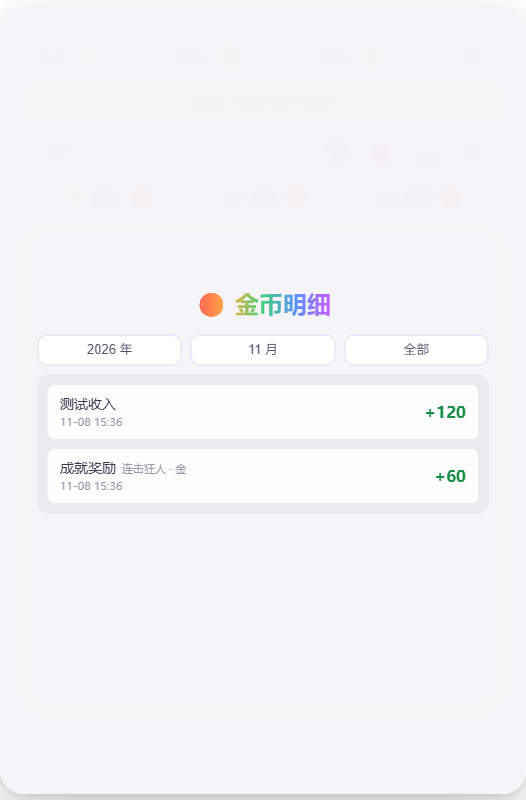
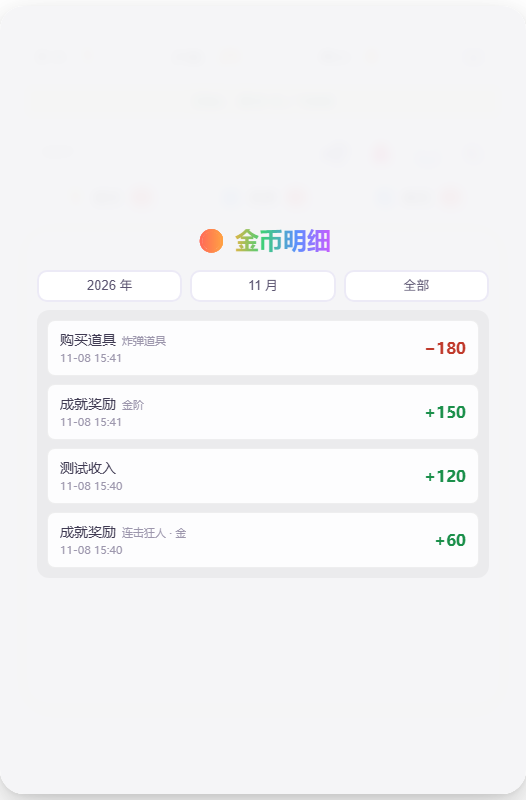
Update files

diff --git a/test-smoke.js b/test-smoke.js
@@ -1004,9 +1004,10 @@ function check(name, ok) {
       /\.ledger-bar\s*\{[^}]*width:\s*90%/.test(cssSrc) &&
       /\.ledger-bar\s*\{[^}]*grid-template-columns:\s*repeat\(3,\s*1fr\)/.test(cssSrc) &&
       /\.ledger-detail\s*\{[^}]*font-size:\s*11px[^}]*font-weight:\s*400/.test(cssSrc) &&
-      // 点过的按键不留蓝焦点框（要跟选择器一起消失），键盘 Tab 仍保留
-      /button:focus:not\(:focus-visible\)[^{]*\{[^}]*outline:\s*none/.test(cssSrc) &&
-      /button:focus-visible[^{]*\{[^}]*outline:/.test(cssSrc) &&
+      // 点过的按键不留蓝焦点框（要跟选择器一起消失，含 :focus-visible）
+      /button:focus,[^{]*\{[^}]*outline:\s*none\s*!important/.test(cssSrc) &&
+      /button:focus-visible[^{]*\{[^}]*outline:\s*none\s*!important/.test(cssSrc) &&
+      /\.closest\('button'\)/.test(jsSrc) &&
       /if \(ledgerMonthSel\.blur\) ledgerMonthSel\.blur\(\)/.test(jsSrc) &&
       /if \(ledgerTypeSel\.blur\) ledgerTypeSel\.blur\(\)/.test(jsSrc) &&
       /'coin-menu': 'main-menu'/.test(jsSrc);
@@ -1120,6 +1121,29 @@ function check(name, ok) {
     if (savedLedger === undefined) lsMap.delete('nl2:ledger'); else lsMap.set('nl2:ledger', savedLedger);
     lsMap.set('nl2:ledgerInit', 'true');
     return seeded && onceOk && balanceOk;
+  })());
+
+  // 14d3-6. 老记录（没有具体说明的购买道具 / 成就奖励）也要补上具体说明
+  check('金币明细：老的「购买道具 / 成就奖励」记录也按金额补上具体说明（只认得出才补）', (() => {
+    const saved = lsMap.get('nl2:ledger');
+    const now = Date.now();
+    lsMap.set('nl2:ledger', JSON.stringify([
+      { t: now, d: -150, m: '购买道具' },
+      { t: now, d: 100, m: '成就奖励' },
+      { t: now, d: 30, m: '通关奖励' }
+    ]));
+    lsMap.delete('nl2:ledgerDetail');
+    const rows = sandbox.Store.getLedger();
+    const buy = rows.filter((x) => x.m === '购买道具')[0];
+    const ach = rows.filter((x) => x.m === '成就奖励')[0];
+    const other = rows.filter((x) => x.m === '通关奖励')[0];
+    const ok = !!buy.x && buy.x.indexOf('洗牌') >= 0 && ach.x === '银阶' && !other.x;
+    // 已经有说明的记录不改
+    lsMap.set('nl2:ledger', JSON.stringify([{ t: now, d: -150, m: '购买道具', x: '洗牌 +1' }]));
+    lsMap.delete('nl2:ledgerDetail');
+    const kept = sandbox.Store.getLedger()[0].x === '洗牌 +1';
+    if (saved === undefined) lsMap.delete('nl2:ledger'); else lsMap.set('nl2:ledger', saved);
+    return ok && kept;
   })());
 
   // 14d4a. 签到入口：日期条状态 + 点红色漏签日补签（50 金币 / 天，不发奖励）
@@ -1832,12 +1856,39 @@ function check(name, ok) {
   check('测试账号名复位', sandbox.Account.current().name === '老玩家2');
 
   // 35. 📮 邮箱：系统邮件 / 未读角标 / 领取奖励
+  // 34b. 欢迎邮件时间 = 建号时间；建号之前的系统邮件不展示；金币明细公告对所有老玩家可见
+  check('邮箱：欢迎邮件按建号时间显示，注册之前发的系统邮件看不到', (() => {
+    const curId = sandbox.Account.current().id;
+    const accs = JSON.parse(lsMap.get('nl2:accounts'));
+    const me = accs.filter((a) => a.id === curId)[0];
+    const saved = me.created;
+    me.created = new Date(2026, 10, 6, 9, 0, 0).getTime();     // 2026-11-06 09:00 建号
+    lsMap.set('nl2:accounts', JSON.stringify(accs));
+    const list = sandbox.Mail.list();
+    const ids = list.map((m) => m.id);
+    const welcome = list.filter((m) => m.id === 'welcome-2026-11')[0];
+    const welcomeOk = !!welcome && welcome.at === '2026-11-06 09:00';
+    // 11-05 发的两封公告：建号之前 → 看不到；11-08 发的两封 → 能看到（含金币明细公告）
+    const oldHidden = ids.indexOf('notice-account-2026-11') < 0 && ids.indexOf('notice-rules-2026-11') < 0;
+    const newVisible = ids.indexOf('notice-master-2026-11-08') >= 0 && ids.indexOf('notice-ledger-2026-11-08') >= 0;
+    me.created = saved;
+    lsMap.set('nl2:accounts', JSON.stringify(accs));
+    return welcomeOk && oldHidden && newVisible;
+  })());
+
+  // 新号看不到建号之前的系统邮件，这里补一封「刚发的」带奖励邮件，后面的领取用例用它
+  const nowStamp = (() => {
+    const d = new Date();
+    const p = (n) => (n < 10 ? '0' + n : String(n));
+    return d.getFullYear() + '-' + p(d.getMonth() + 1) + '-' + p(d.getDate()) + ' ' + p(d.getHours()) + ':' + p(d.getMinutes());
+  })();
+  sandbox.Mail.sendMail({ id: 'utest-gift-b', at: nowStamp, icon: '🎁', title: '测试奖励', coins: 50 });
   const mailListAll = sandbox.Mail.list();
   const giftMail = mailListAll.filter((m) => m.hasGift)[0];
   check('邮箱里有系统邮件（公告 + 带奖励的）',
     mailListAll.length >= 3 && !!giftMail && !!giftMail.coins);
   check('未读数和已读状态初始正确', sandbox.Mail.get(giftMail.id).read === false);
-  sandbox.__nl_test && null;
+  sandbox.__nl_test.refreshMenu();          // 刚补的那封要让角标重新算一遍
   $('main-menu').style.display = 'flex';
   check('主页邮箱键显示未读角标（数字 = 未读封数）',
     String($('mail-badge').textContent) === String(mailListAll.length) && $('mail-badge').style.display !== 'none');
@@ -1919,7 +1970,10 @@ function check(name, ok) {
     sandbox.Mail.list().length === leftBefore - 1);
 
   // 一键删除：未领奖励的邮件不删
-  sandbox.Mail.sendMail({ id: 'utest-gift', at: '2026-11-05 20:30', title: '测试奖励', coins: 50 });
+  // 先把其它带奖励的邮件领掉，保证「一键删除」只会剩下下面这封没领奖的
+  sandbox.Mail.list().filter((m) => m.hasGift && !m.claimed && m.id !== 'utest-gift')
+    .forEach((m) => sandbox.Mail.claim(m.id));
+  sandbox.Mail.sendMail({ id: 'utest-gift', at: nowStamp, title: '测试奖励', coins: 50 });
   $('btn-mail-del-all').dispatch('click');
   check('一键删除先弹确认窗口',
     $('mail-delall-confirm').style.display === 'flex' &&

diff --git a/js/mail.js b/js/mail.js
@@ -13,6 +13,7 @@
     {
       id: 'welcome-2026-11',
       at: '2026-11-05 12:00',
+      atRegister: true,             // 发送时间 = 这个账号的建号时间（下面 at 只是没有建号时间时的兜底）
       icon: '🎉',
       title: '欢迎来到奶龙消消乐',
       from: '系统',
@@ -35,6 +36,15 @@
       title: '说明页更新：功能介绍和玩法说明分开了',
       from: '系统',
       body: '左上角的 📖 说明现在先让你选看哪一份：\n\n· 🧩 功能介绍：章节、更多玩法、金币道具、每日挑战、福利、成就与配色、排行榜、音乐、账号\n· 🎮 玩法说明：基本玩法、特殊块、组合技、连击、关卡目标、障碍与货物、星级、分数与纪录、提示与续命\n\n只想查一个机制的时候，不用再翻完一整页了。',
+      coins: 0
+    },
+    {
+      id: 'notice-ledger-2026-11-08',
+      at: '2026-11-08 15:45',
+      icon: '🪙',
+      title: '金币明细上线：每一笔收支都能查',
+      from: '系统',
+      body: '主页点「🪙 金币」这一行就能打开金币明细：\n\n· 上面一行选年月（不会让你选到未来的月份）和类型（全部 / 支出 / 收入）\n· 买道具会写明买的是哪个、成就奖励会写明是哪一枚哪一阶\n· 明细上线之前的收支补成了一条「历史收支」，全部加起来正好是钱包里的金币',
       coins: 0
     },
     {
@@ -92,6 +102,34 @@
     return String(m.to).trim().toLowerCase() === myName();
   }
 
+  function p2(n) { return n < 10 ? '0' + n : String(n); }
+  function fmtTime(d) {
+    return d.getFullYear() + '-' + p2(d.getMonth() + 1) + '-' + p2(d.getDate()) +
+      ' ' + p2(d.getHours()) + ':' + p2(d.getMinutes());
+  }
+  // 建号时间：欢迎邮件的发送时间就用它；比它早的系统邮件玩家一律看不到
+  function registeredAt() {
+    try {
+      const acc = (global.Account && Account.current) ? Account.current() : null;
+      if (acc && acc.created) {
+        const d = new Date(acc.created);
+        if (!isNaN(d.getTime())) {
+          d.setSeconds(0, 0);          // 只精确到分钟：建号同一分钟里发的邮件也算「注册之后」
+          return { ts: d.getTime(), text: fmtTime(d) };
+        }
+      }
+    } catch (e) {}
+    return { ts: 0, text: '' };
+  }
+  function atOf(m, reg) {
+    if (m.atRegister) return reg.text || m.at || '';
+    return m.at || '';
+  }
+  function atTime(at) {
+    const t = Date.parse(String(at || '').replace(' ', 'T'));
+    return isNaN(t) ? 0 : t;
+  }
+
   function normalize(m) {
     return {
       id: m.id,
@@ -117,9 +155,10 @@
       seen[m.id] = true;
       return true;
     });
+    const reg = registeredAt();
     return uniq.map((m) => ({
       id: m.id,
-      at: m.at,
+      at: atOf(m, reg),
       icon: m.icon || '📮',
       title: m.title,
       from: m.from || '系统',
@@ -129,7 +168,10 @@
       read: !!s.read[m.id],
       claimed: !!s.claimed[m.id],
       hasGift: !!(m.coins || m.items)
-    })).sort((a, b) => (a.at < b.at ? 1 : a.at > b.at ? -1 : 0));
+    }))
+      // 建号之前的系统邮件不展示（老玩家不会有「你注册前就发过」的邮件）
+      .filter((m) => !reg.ts || !atTime(m.at) || atTime(m.at) >= reg.ts)
+      .sort((a, b) => (a.at < b.at ? 1 : a.at > b.at ? -1 : 0));
   }
 
   // 发一封邮件到当前账号的邮箱（奖励走这里，金币作为附件，等用户自己领）

diff --git a/index.html b/index.html
@@ -12,8 +12,8 @@
 <link rel="preload" as="image" type="image/webp" href="./assets/4.webp">
 <link rel="preload" as="image" type="image/webp" href="./assets/5.webp">
 <link rel="preload" as="image" type="image/png" href="./assets/nailong.png">
-<link rel="stylesheet" href="./css/style.css?v=20261109n">
-<link rel="stylesheet" href="./css/themes.css?v=20261109n">
+<link rel="stylesheet" href="./css/style.css?v=20261109p">
+<link rel="stylesheet" href="./css/themes.css?v=20261109p">
 </head>
 <body data-theme="grass" data-view="menu">
 <div class="game-container">
@@ -1003,22 +1003,22 @@
   </div>
 </div>
 
-<script src="./js/rng.js?v=20261109n"></script>
-<script src="./js/storage.js?v=20261109n"></script>
-<script src="./js/audio.js?v=20261109n"></script>
-<script src="./js/effects.js?v=20261109n"></script>
-<script src="./js/specials.js?v=20261109n"></script>
-<script src="./js/goals.js?v=20261109n"></script>
-<script src="./js/tasks.js?v=20261109n"></script>
-<script src="./js/mail.js?v=20261109n"></script>
-<script src="./js/input.js?v=20261109n"></script>
-<script src="./js/builtin-music.js?v=20261109n"></script>
-<script src="./js/music.js?v=20261109n"></script>
-<script src="./js/meta.js?v=20261109n"></script>
-<script src="./js/cloud-config.js?v=20261109n"></script>
-<script src="./js/cloud.js?v=20261109n"></script>
-<script src="./js/account.js?v=20261109n"></script>
-<script src="./js/board.js?v=20261109n"></script>
-<script src="./js/game.js?v=20261109n"></script>
+<script src="./js/rng.js?v=20261109p"></script>
+<script src="./js/storage.js?v=20261109p"></script>
+<script src="./js/audio.js?v=20261109p"></script>
+<script src="./js/effects.js?v=20261109p"></script>
+<script src="./js/specials.js?v=20261109p"></script>
+<script src="./js/goals.js?v=20261109p"></script>
+<script src="./js/tasks.js?v=20261109p"></script>
+<script src="./js/mail.js?v=20261109p"></script>
+<script src="./js/input.js?v=20261109p"></script>
+<script src="./js/builtin-music.js?v=20261109p"></script>
+<script src="./js/music.js?v=20261109p"></script>
+<script src="./js/meta.js?v=20261109p"></script>
+<script src="./js/cloud-config.js?v=20261109p"></script>
+<script src="./js/cloud.js?v=20261109p"></script>
+<script src="./js/account.js?v=20261109p"></script>
+<script src="./js/board.js?v=20261109p"></script>
+<script src="./js/game.js?v=20261109p"></script>
 </body>
 </html>

diff --git a/js/storage.js b/js/storage.js
@@ -19,6 +19,7 @@
     net: NS + ':net',             // 后台缓存 { globalHits, geo:{country,region,city,ts} }
     ledger: NS + ':ledger',       // 金币明细 [{ t:时间, d:正负金额, m:说明, x:具体说明 }]
     ledgerInit: NS + ':ledgerInit', // 明细上线时补记过历史收支（只补一次）
+    ledgerDetail: NS + ':ledgerDetail', // 老记录补过「具体买了什么 / 哪一阶成就」（只补一次）
     save: NS + ':save'            // 当前局
   };
 
@@ -211,8 +212,31 @@
     } catch (e) {}
     write(K.ledger, [{ t: t, d: coins, m: '历史收支', x: '明细上线前' }]);
   }
+  // 上线早期记的「购买道具 / 成就奖励」没有具体说明：按当时的金额把能认出来的补上
+  // （道具价格、成就阶位都是固定的，反推即可；同价位的几种就一起写上）
+  const PRICE_DETAIL = {
+    20: '霜块道具', 150: '洗牌 / 撤回 +1', 180: '炸弹道具', 210: '磁铁道具',
+    230: '线消道具', 250: '螺旋桨道具', 300: '彩虹 / +3 步 / +7s', 500: '颜料道具'
+  };
+  const TIER_DETAIL = { 50: '铜阶', 100: '银阶', 150: '金阶', 200: '彩阶' };
+  function fillLegacyDetail() {
+    if (read(K.ledgerDetail, false)) return;
+    write(K.ledgerDetail, true);
+    const arr = readLedger();
+    let changed = false;
+    arr.forEach((x) => {
+      if (x.x) return;                       // 已经有具体说明的跳过
+      let d = '';
+      if (x.m === '购买道具' && x.d < 0) d = PRICE_DETAIL[-x.d] || '';
+      else if (x.m === '成就奖励' && x.d > 0) d = TIER_DETAIL[x.d] || '';
+      if (d) { x.x = d; changed = true; }
+    });
+    if (changed) write(K.ledger, arr);
+  }
+
   function getLedger() {
     ensureLedger();
+    fillLegacyDetail();
     return readLedger();
   }
   function pushLedger(delta, memo, detail) {

diff --git a/_preview/measure-ledger.js b/_preview/measure-ledger.js
@@ -84,8 +84,8 @@ const sleep = (ms) => new Promise((r) => setTimeout(r, ms));
 
   // 小字是否在类别右边（DOM 顺序 + 位置）
   console.log('detailRight', await evaluate(`(function(){
-    var m = document.querySelector('.ledger-memo');
-    var d = m && m.querySelector('.ledger-detail');
+    var d0 = document.querySelector('.ledger-detail'); var m = d0 && d0.parentNode;
+    var d = d0;
     if (!d) return 'no-detail';
     var mr = m.getBoundingClientRect(), dr = d.getBoundingClientRect();
     return JSON.stringify({ domAfter: m.lastElementChild === d, x: Math.round(dr.x), memoRight: Math.round(mr.right), right: dr.x > mr.x });
@@ -103,7 +103,7 @@ const sleep = (ms) => new Promise((r) => setTimeout(r, ms));
   })()`));
 
   const shot = await send('Page.captureScreenshot', { format: 'png' });
-  require('fs').writeFileSync('D:/nailong-match/_preview/coin-ledger4.png', Buffer.from(shot.result.data, 'base64'));
+  require('fs').writeFileSync('D:/nailong-match/_preview/coin-ledger5.png', Buffer.from(shot.result.data, 'base64'));
   console.log('shot ok');
   ws.close();
 })();

diff --git a/css/style.css b/css/style.css
@@ -7,10 +7,14 @@ html, body {
 }
 body { display: flex; align-items: center; justify-content: center; touch-action: none; }
 
-/* 点过的按键 / 下拉不要再留一圈蓝色焦点框（要跟选择器一起消失，不能滞后）；
-   键盘操作（Tab）依然保留焦点框，方便无障碍使用 */
-button:focus:not(:focus-visible), select:focus:not(:focus-visible), a:focus:not(:focus-visible) { outline: none; }
-button:focus-visible, select:focus-visible { outline: 2px solid #7c5cff; outline-offset: 2px; }
+/* 点过的按键 / 下拉不要再留蓝色焦点框：收起选择器的那一刻圈圈就跟着消失，不许滞后。
+   焦点框（含 :focus-visible / iOS 的 -webkit-focus-ring）一律不画。 */
+button:focus, select:focus, a:focus,
+button:focus-visible, select:focus-visible,
+button:active, select:active {
+  outline: none !important;
+  -webkit-tap-highlight-color: transparent;
+}
 
 .game-container {
   position: relative; display: flex; flex-direction: column; align-items: center;

diff --git a/js/game.js b/js/game.js
@@ -6426,6 +6426,12 @@
   }
   if (Store.onWallet) Store.onWallet(syncCoinUI);
 
+  // 点过的按键立刻收回焦点：蓝圈圈不留在屏幕上（下拉在选择完自己 blur）
+  document.addEventListener('click', (e) => {
+    const el = (e.target && e.target.closest) ? e.target.closest('button') : null;
+    if (el && el.blur) el.blur();
+  }, true);
+
   // ==================== 主循环 ====================
   function loop(now) {
     const dt = Math.min(0.05, (now - (S.lastFrame || now)) / 1000);
